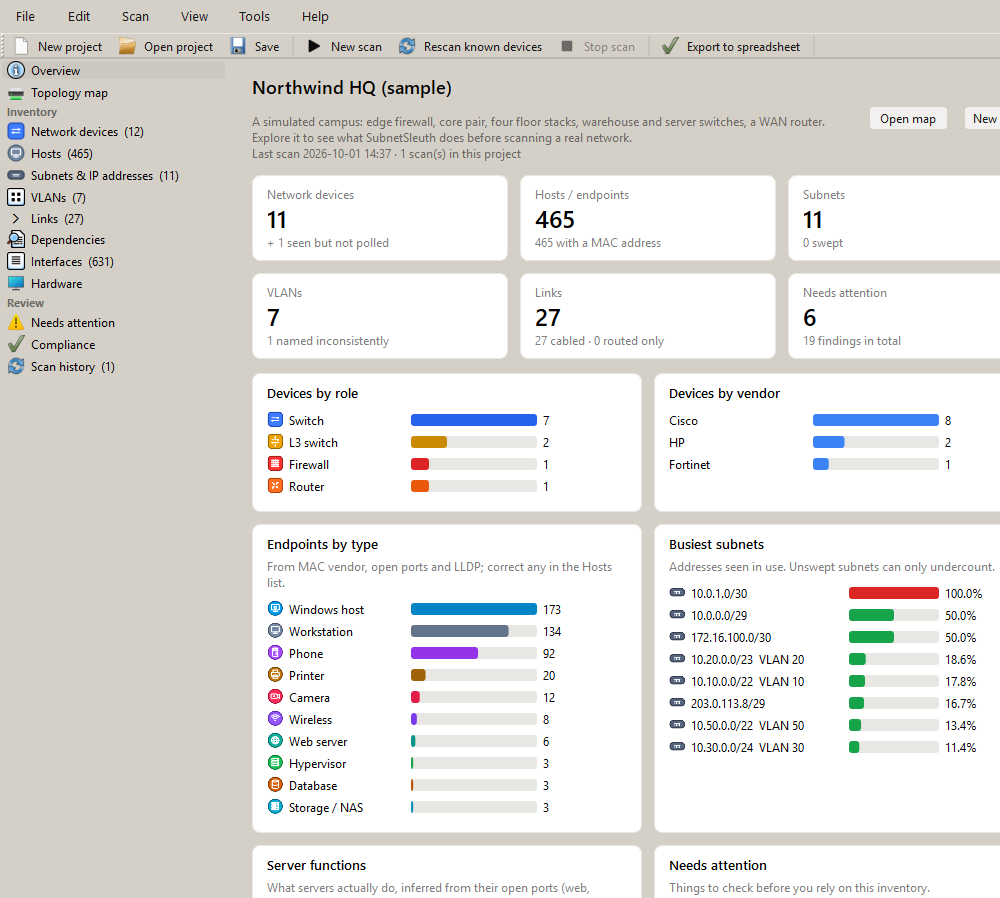
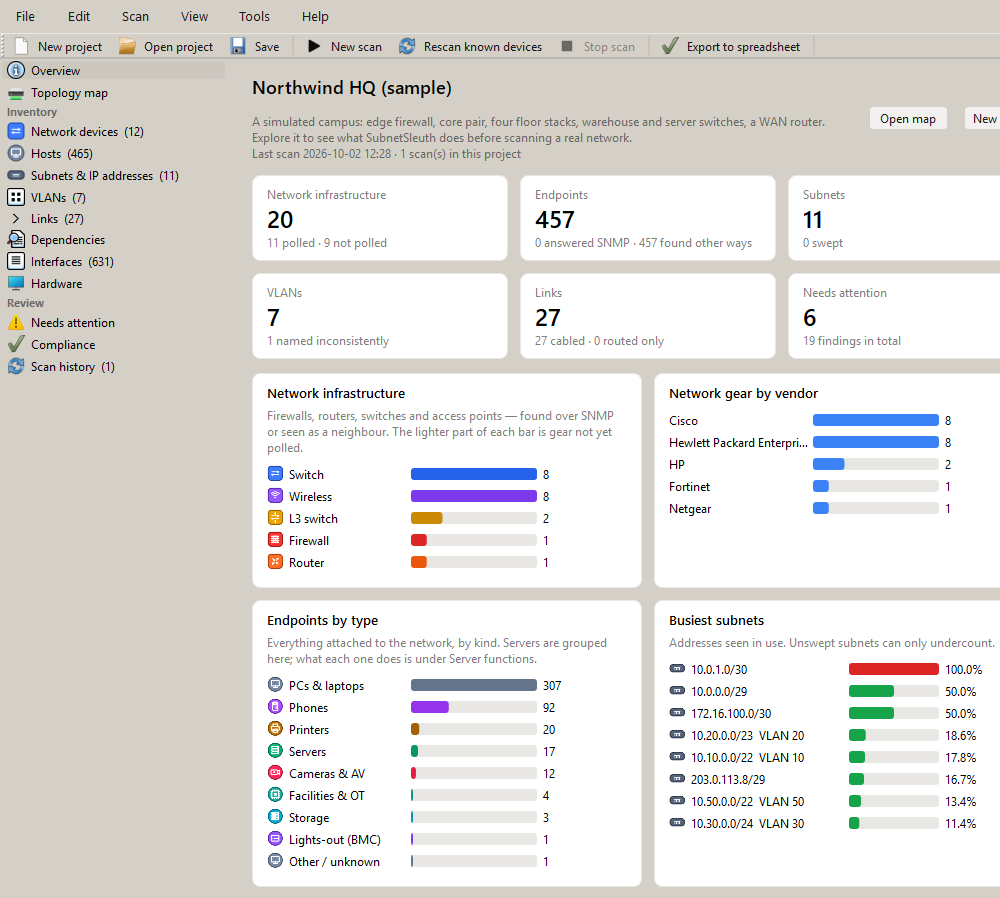
SubnetSleuth: overview split, default communities, Windows device type
The overview no longer shows network gear and endpoints as two overlapping
lists: it now separates the network infrastructure (with the not-yet-polled
part of each bar lighter) from the endpoints by kind, so the page and its
screenshot match the app. Adds the optional step of trying well-known default
SNMP communities read-only (and flagging any device still on one), and notes
that authenticated Windows inspection now tells a server, a domain controller
and a workstation apart. Overview screenshot refreshed from the v0.14.0 build.

diff --git a/src/content/projects/subnetsleuth/index.md b/src/content/projects/subnetsleuth/index.md
@@ -38,13 +38,15 @@ From there it works in stages:
 
 While it runs, the Activity panel's **Now:** line names exactly what is in flight: the /24 blocks being swept, the batch being port-scanned and Nmap's current stage, the devices being polled. On a large network that line is the difference between "it's working" and "is it stuck?".
 
+If the SNMP credentials came with the network, you add them. If they did not — common on a network nobody documented — SubnetSleuth can also try the handful of well-known factory-default community strings, read-only, after anything you did provide. Any device that still answers one is listed under *Needs attention* so you can change it.
+
 Everything it sends is read-only (SNMP GET and GETBULK, never SET), and every step checks the same scope before contacting an address, so nothing outside your ranges is touched, whichever step found it.
 
 ## What it works out
 
-The **Overview** is the first answer to "what have we got": devices by role and vendor, hosts by type, the busiest subnets, and the findings that need attention.
+The **Overview** is the first answer to "what have we got". It separates the network itself — firewalls, routers, switches and access points, with the gear you have not yet polled shown as a lighter part of each bar — from the endpoints attached to it, grouped by kind (PCs, phones, printers, servers and so on). Alongside are the gear by vendor, the busiest subnets, what each server actually does, and the findings that need attention.
 
-![The Overview page of the sample campus: 11 network devices, 465 hosts, 11 subnets, 7 VLANs and 27 links, with bars for devices by role and vendor, endpoints by type and the busiest subnets](./overview.png)
+![The Overview page of the sample campus: cards for network infrastructure (20, of which 11 polled), endpoints (457), subnets, VLANs and links, with bars for the infrastructure by type, the network gear by vendor, the endpoints by kind and the busiest subnets](./overview.png)
 
 **Topology.** The physical map is worked out from LLDP/CDP neighbours and MAC address tables, so it shows the cabling, including the devices that don't speak LLDP. The logical map shows subnets, gateways and the routers between them. Maps can be laid out automatically or by hand, positions are saved in the project, and they export to draw.io (and from there to Visio).
 
@@ -81,7 +83,7 @@ Right-click any device or host, or type an address, and **Deep scan with Nmap** 
 Beyond SNMP, SubnetSleuth can:
 
 - capture running configurations over SSH and show what changed between captures;
-- inspect servers over SSH or WinRM (OS, hardware, installed software, services and live connections, which become a dependency map of who talks to which server);
+- inspect hosts over SSH or WinRM — with your credentials it reads the OS, hardware, installed software, services and live connections (which become a dependency map of who talks to which server), and on Windows the OS product type tells a server, a domain controller and a workstation apart;
 - read VMware vCenter;
 - import DHCP leases;
 - listen for syslog and SNMP traps while you are on site;
